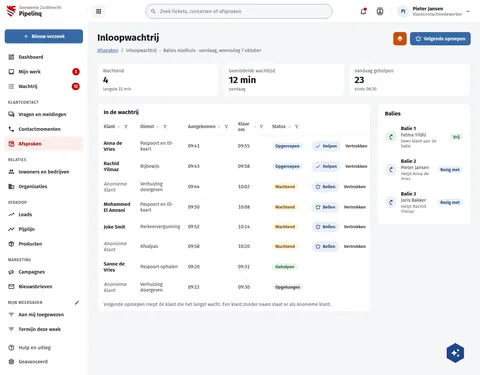
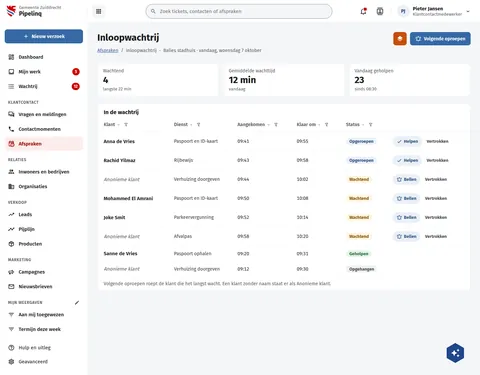
fix(screens): PqProduct spec sheet size and PqInloop without desks card
PqProduct: the spec sheet reads 1 KB, the size of the example set's file
(pipelinq #2675), not 220 KB. PqInloop: the Desks side card is dropped; a
desk is not a resource type and the live walk-in queue has no such card
(decision 11), so the queue takes the full width.

Assisted-by: ClaudeCode:claude-opus-5-5

diff --git a/preview/screens/boards/PqInloop.html b/preview/screens/boards/PqInloop.html
@@ -316,30 +316,6 @@ a{color:var(--sc-primary, #3669a5)}a:hover{color:var(--sc-primary-deep, #234a78)
               <span>Volgende oproepen roept de klant die het langst wacht. Een klant zonder naam staat er als Anonieme klant.</span>
             </div>
           </section>
-          <aside style="flex: 1 1 280px; min-width: 0; display: flex; flex-direction: column; gap: 20px">
-            <section style="background: #ffffff; border: 1px solid var(--sc-work-line, #e4e6ea); border-radius: 12px; padding: 20px 22px; display: flex; flex-direction: column; gap: 4px">
-              <h2 style="margin: 0 0 8px; font-size: 17px; font-weight: 700">Balies</h2>
-              
-                <div style="display: flex; gap: 12px; align-items: center; padding: 12px 0; border-top: 1px solid var(--sc-work-soft, #eef0f3)">
-                  <span style="width: 36px; height: 36px; flex: none; border-radius: 18px; background: #e7f3ea; color: #1e6b2a; display: flex; align-items: center; justify-content: center"><svg width="18" height="18" viewbox="0 0 24 24" fill="currentColor"><path d="M10.85,2L9.18,4.5L10.32,5.25L7.14,10C7.1,10 7.05,10 7,10A2,2 0 0,0 5,12C5,12.94 5.66,13.75 6.58,13.95L10.62,20H7V22H17V20H13L8.53,13.28C8.83,12.92 9,12.47 9,12C9,11.7 8.93,11.4 8.8,11.13L12,6.37C11.78,8.05 12.75,9.89 14.45,11L18.89,4.37C17.2,3.24 15.12,3.04 13.65,3.87L10.85,2M18.33,7L16.67,9.5C17.35,9.95 18.29,9.77 18.75,9.08C19.21,8.39 19,7.46 18.33,7Z"></path></svg></span>
-                  <span style="flex: 1; display: flex; flex-direction: column; gap: 2px"><strong style="font-size: 15px">Balie 1</strong><span style="font-size: 14px; color: var(--sc-work-text, #3d4047)">Fatma Yildiz</span><span style="font-size: 13px; color: var(--sc-work-muted, #5e6168)">Geen klant aan de balie</span></span>
-                  <span style="display: inline-block; padding: 3px 10px; border-radius: 12px; font-size: 13px; font-weight: 600; white-space: nowrap; background: #e7f3ea; color: #1e6b2a">Vrij</span>
-                </div>
-              
-                <div style="display: flex; gap: 12px; align-items: center; padding: 12px 0; border-top: 1px solid var(--sc-work-soft, #eef0f3)">
-                  <span style="width: 36px; height: 36px; flex: none; border-radius: 18px; background: var(--sc-primary-light, #eaf0f7); color: var(--sc-primary-deep, #234a78); display: flex; align-items: center; justify-content: center"><svg width="18" height="18" viewbox="0 0 24 24" fill="currentColor"><path d="M10.85,2L9.18,4.5L10.32,5.25L7.14,10C7.1,10 7.05,10 7,10A2,2 0 0,0 5,12C5,12.94 5.66,13.75 6.58,13.95L10.62,20H7V22H17V20H13L8.53,13.28C8.83,12.92 9,12.47 9,12C9,11.7 8.93,11.4 8.8,11.13L12,6.37C11.78,8.05 12.75,9.89 14.45,11L18.89,4.37C17.2,3.24 15.12,3.04 13.65,3.87L10.85,2M18.33,7L16.67,9.5C17.35,9.95 18.29,9.77 18.75,9.08C19.21,8.39 19,7.46 18.33,7Z"></path></svg></span>
-                  <span style="flex: 1; display: flex; flex-direction: column; gap: 2px"><strong style="font-size: 15px">Balie 2</strong><span style="font-size: 14px; color: var(--sc-work-text, #3d4047)">Pieter Jansen</span><span style="font-size: 13px; color: var(--sc-work-muted, #5e6168)">Helpt Anna de Vries</span></span>
-                  <span style="display: inline-block; padding: 3px 10px; border-radius: 12px; font-size: 13px; font-weight: 600; white-space: nowrap; background: var(--sc-primary-light, #eaf0f7); color: var(--sc-primary-deep, #234a78)">Bezig met</span>
-                </div>
-              
-                <div style="display: flex; gap: 12px; align-items: center; padding: 12px 0; border-top: 1px solid var(--sc-work-soft, #eef0f3)">
-                  <span style="width: 36px; height: 36px; flex: none; border-radius: 18px; background: var(--sc-primary-light, #eaf0f7); color: var(--sc-primary-deep, #234a78); display: flex; align-items: center; justify-content: center"><svg width="18" height="18" viewbox="0 0 24 24" fill="currentColor"><path d="M10.85,2L9.18,4.5L10.32,5.25L7.14,10C7.1,10 7.05,10 7,10A2,2 0 0,0 5,12C5,12.94 5.66,13.75 6.58,13.95L10.62,20H7V22H17V20H13L8.53,13.28C8.83,12.92 9,12.47 9,12C9,11.7 8.93,11.4 8.8,11.13L12,6.37C11.78,8.05 12.75,9.89 14.45,11L18.89,4.37C17.2,3.24 15.12,3.04 13.65,3.87L10.85,2M18.33,7L16.67,9.5C17.35,9.95 18.29,9.77 18.75,9.08C19.21,8.39 19,7.46 18.33,7Z"></path></svg></span>
-                  <span style="flex: 1; display: flex; flex-direction: column; gap: 2px"><strong style="font-size: 15px">Balie 3</strong><span style="font-size: 14px; color: var(--sc-work-text, #3d4047)">Joris Bakker</span><span style="font-size: 13px; color: var(--sc-work-muted, #5e6168)">Helpt Rachid Yilmaz</span></span>
-                  <span style="display: inline-block; padding: 3px 10px; border-radius: 12px; font-size: 13px; font-weight: 600; white-space: nowrap; background: var(--sc-primary-light, #eaf0f7); color: var(--sc-primary-deep, #234a78)">Bezig met</span>
-                </div>
-              
-            </section>
-          </aside>
         </div>
       </main>
     </div>

diff --git a/screens-src/zuiddrecht/PqInloop.dc.html b/screens-src/zuiddrecht/PqInloop.dc.html
@@ -73,18 +73,6 @@ a{color:#3669a5}a:hover{color:#234a78}
               <span>Volgende oproepen roept de klant die het langst wacht. Een klant zonder naam staat er als Anonieme klant.</span>
             </div>
           </section>
-          <aside style="flex: 1 1 280px; min-width: 0; display: flex; flex-direction: column; gap: 20px">
-            <section style="background: #ffffff; border: 1px solid #e4e6ea; border-radius: 12px; padding: 20px 22px; display: flex; flex-direction: column; gap: 4px">
-              <h2 style="margin: 0 0 8px; font-size: 17px; font-weight: 700">Balies</h2>
-              <sc-for list="{{ desks }}" as="d" hint-placeholder-count="3">
-                <div style="display: flex; gap: 12px; align-items: center; padding: 12px 0; border-top: 1px solid #eef0f3">
-                  <span style="width: 36px; height: 36px; flex: none; border-radius: 18px; background: {{ d.bg }}; color: {{ d.fg }}; display: flex; align-items: center; justify-content: center"><svg width="18" height="18" viewBox="0 0 24 24" fill="currentColor"><path d="M10.85,2L9.18,4.5L10.32,5.25L7.14,10C7.1,10 7.05,10 7,10A2,2 0 0,0 5,12C5,12.94 5.66,13.75 6.58,13.95L10.62,20H7V22H17V20H13L8.53,13.28C8.83,12.92 9,12.47 9,12C9,11.7 8.93,11.4 8.8,11.13L12,6.37C11.78,8.05 12.75,9.89 14.45,11L18.89,4.37C17.2,3.24 15.12,3.04 13.65,3.87L10.85,2M18.33,7L16.67,9.5C17.35,9.95 18.29,9.77 18.75,9.08C19.21,8.39 19,7.46 18.33,7Z"></path></svg></span>
-                  <span style="flex: 1; display: flex; flex-direction: column; gap: 2px"><strong style="font-size: 15px">{{ d.name }}</strong><span style="font-size: 14px; color: #3d4047">{{ d.who }}</span><span style="font-size: 13px; color: #5e6168">{{ d.what }}</span></span>
-                  <span style="{{ d.pillStyle }}">{{ d.state }}</span>
-                </div>
-              </sc-for>
-            </section>
-          </aside>
         </div>
       </main>
     </div>
@@ -114,12 +102,7 @@ class Component extends DCLogic {
       ['Anonieme klant', 'Verhuizing doorgeven', '09:12', '09:30', 'Opgehangen']
     ].map(([name, service, arrived, ready, status]) => ({ name, service, arrived, ready, status, statusStyle: S[status], waiting: status === 'Wachtend', called: status === 'Opgeroepen',
       nameStyle: name === 'Anonieme klant' ? 'font-size: 15px; color: #5e6168; font-style: italic' : 'font-size: 15px; font-weight: 600' }));
-    const desks = [
-      ['Balie 1', 'Fatma Yildiz', 'Geen klant aan de balie', 'Vrij', '#e7f3ea', '#1e6b2a'],
-      ['Balie 2', 'Pieter Jansen', 'Helpt Anna de Vries', 'Bezig met', '#eaf0f7', '#234a78'],
-      ['Balie 3', 'Joris Bakker', 'Helpt Rachid Yilmaz', 'Bezig met', '#eaf0f7', '#234a78']
-    ].map(([name, who, what, state, bg, fg]) => ({ name, who, what, state, bg, fg, pillStyle: st(bg, fg) }));
-    return { nav, rows, desks };
+    return { nav, rows };
   }
 }
 </script>

diff --git a/preview/screens/boards/PqProduct.html b/preview/screens/boards/PqProduct.html
@@ -378,7 +378,7 @@ a{color:var(--sc-primary, #3669a5)}a:hover{color:var(--sc-primary-deep, #234a78)
                 
                   <figure style="margin: 0; flex: 0 1 180px; display: flex; flex-direction: column; gap: 6px"><div style="height: 112px; border-radius: 8px; background: #e3f1f3; color: #1d5e66; display: flex; align-items: center; justify-content: center"><svg width="32" height="32" viewbox="0 0 24 24" fill="currentColor"><path d="M19,19H5V5H19M19,3H5A2,2 0 0,0 3,5V19A2,2 0 0,0 5,21H19A2,2 0 0,0 21,19V5A2,2 0 0,0 19,3M13.96,12.29L11.21,15.83L9.25,13.47L6.5,17H17.5L13.96,12.29Z"></path></svg></div><figcaption style="font-size: 13px; color: var(--sc-work-text, #3d4047)">Achterkant, met de barcode</figcaption></figure>
                 
-                <a href="#" style="flex: 1 1 220px; align-self: flex-start; display: flex; gap: 10px; align-items: center; padding: 12px; border: 1px solid var(--sc-work-line, #e4e6ea); border-radius: 8px; text-decoration: none"><svg width="22" height="22" viewbox="0 0 24 24" fill="#a30000" style="fill:var(--sc-accent-deep, #a30000)"><path d="M19 3H5C3.9 3 3 3.9 3 5V19C3 20.1 3.9 21 5 21H19C20.1 21 21 20.1 21 19V5C21 3.9 20.1 3 19 3M9.5 11.5C9.5 12.3 8.8 13 8 13H7V15H5.5V9H8C8.8 9 9.5 9.7 9.5 10.5V11.5M14.5 13.5C14.5 14.3 13.8 15 13 15H10.5V9H13C13.8 9 14.5 9.7 14.5 10.5V13.5M18.5 10.5H17V11.5H18.5V13H17V15H15.5V9H18.5V10.5M12 10.5H13V13.5H12V10.5M7 10.5H8V11.5H7V10.5Z"></path></svg><span style="display: flex; flex-direction: column; gap: 2px"><strong style="font-size: 14px">Specificatie afvalpas, MIFARE-kaart.pdf</strong><span style="font-size: 13px; color: var(--sc-work-muted, #5e6168)">Van de leverancier · 220 KB</span></span></a>
+                <a href="#" style="flex: 1 1 220px; align-self: flex-start; display: flex; gap: 10px; align-items: center; padding: 12px; border: 1px solid var(--sc-work-line, #e4e6ea); border-radius: 8px; text-decoration: none"><svg width="22" height="22" viewbox="0 0 24 24" fill="#a30000" style="fill:var(--sc-accent-deep, #a30000)"><path d="M19 3H5C3.9 3 3 3.9 3 5V19C3 20.1 3.9 21 5 21H19C20.1 21 21 20.1 21 19V5C21 3.9 20.1 3 19 3M9.5 11.5C9.5 12.3 8.8 13 8 13H7V15H5.5V9H8C8.8 9 9.5 9.7 9.5 10.5V11.5M14.5 13.5C14.5 14.3 13.8 15 13 15H10.5V9H13C13.8 9 14.5 9.7 14.5 10.5V13.5M18.5 10.5H17V11.5H18.5V13H17V15H15.5V9H18.5V10.5M12 10.5H13V13.5H12V10.5M7 10.5H8V11.5H7V10.5Z"></path></svg><span style="display: flex; flex-direction: column; gap: 2px"><strong style="font-size: 14px">Specificatie afvalpas, MIFARE-kaart.pdf</strong><span style="font-size: 13px; color: var(--sc-work-muted, #5e6168)">Van de leverancier · 1 KB</span></span></a>
               </div>
             </section>
           </div>

diff --git a/screens-src/zuiddrecht/PqProduct.dc.html b/screens-src/zuiddrecht/PqProduct.dc.html
@@ -169,7 +169,7 @@ a{color:#3669a5}a:hover{color:#234a78}
                 <sc-for list="{{ images }}" as="i" hint-placeholder-count="2">
                   <figure style="margin: 0; flex: 0 1 180px; display: flex; flex-direction: column; gap: 6px"><div style="height: 112px; border-radius: 8px; background: #e3f1f3; color: #1d5e66; display: flex; align-items: center; justify-content: center"><svg width="32" height="32" viewBox="0 0 24 24" fill="currentColor"><path d="M19,19H5V5H19M19,3H5A2,2 0 0,0 3,5V19A2,2 0 0,0 5,21H19A2,2 0 0,0 21,19V5A2,2 0 0,0 19,3M13.96,12.29L11.21,15.83L9.25,13.47L6.5,17H17.5L13.96,12.29Z"></path></svg></div><figcaption style="font-size: 13px; color: #3d4047">{{ i.caption }}</figcaption></figure>
                 </sc-for>
-                <a href="#" style="flex: 1 1 220px; align-self: flex-start; display: flex; gap: 10px; align-items: center; padding: 12px; border: 1px solid #e4e6ea; border-radius: 8px; text-decoration: none"><svg width="22" height="22" viewBox="0 0 24 24" fill="#a30000"><path d="M19 3H5C3.9 3 3 3.9 3 5V19C3 20.1 3.9 21 5 21H19C20.1 21 21 20.1 21 19V5C21 3.9 20.1 3 19 3M9.5 11.5C9.5 12.3 8.8 13 8 13H7V15H5.5V9H8C8.8 9 9.5 9.7 9.5 10.5V11.5M14.5 13.5C14.5 14.3 13.8 15 13 15H10.5V9H13C13.8 9 14.5 9.7 14.5 10.5V13.5M18.5 10.5H17V11.5H18.5V13H17V15H15.5V9H18.5V10.5M12 10.5H13V13.5H12V10.5M7 10.5H8V11.5H7V10.5Z"></path></svg><span style="display: flex; flex-direction: column; gap: 2px"><strong style="font-size: 14px">Specificatie afvalpas, MIFARE-kaart.pdf</strong><span style="font-size: 13px; color: #5e6168">Van de leverancier · 220 KB</span></span></a>
+                <a href="#" style="flex: 1 1 220px; align-self: flex-start; display: flex; gap: 10px; align-items: center; padding: 12px; border: 1px solid #e4e6ea; border-radius: 8px; text-decoration: none"><svg width="22" height="22" viewBox="0 0 24 24" fill="#a30000"><path d="M19 3H5C3.9 3 3 3.9 3 5V19C3 20.1 3.9 21 5 21H19C20.1 21 21 20.1 21 19V5C21 3.9 20.1 3 19 3M9.5 11.5C9.5 12.3 8.8 13 8 13H7V15H5.5V9H8C8.8 9 9.5 9.7 9.5 10.5V11.5M14.5 13.5C14.5 14.3 13.8 15 13 15H10.5V9H13C13.8 9 14.5 9.7 14.5 10.5V13.5M18.5 10.5H17V11.5H18.5V13H17V15H15.5V9H18.5V10.5M12 10.5H13V13.5H12V10.5M7 10.5H8V11.5H7V10.5Z"></path></svg><span style="display: flex; flex-direction: column; gap: 2px"><strong style="font-size: 14px">Specificatie afvalpas, MIFARE-kaart.pdf</strong><span style="font-size: 13px; color: #5e6168">Van de leverancier · 1 KB</span></span></a>
               </div>
             </section>
           </div>
